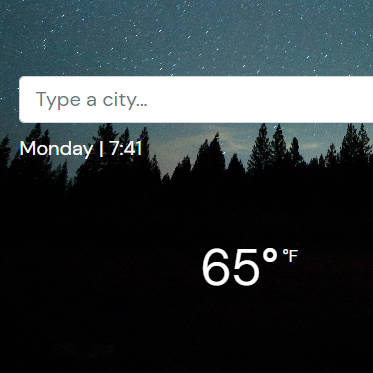
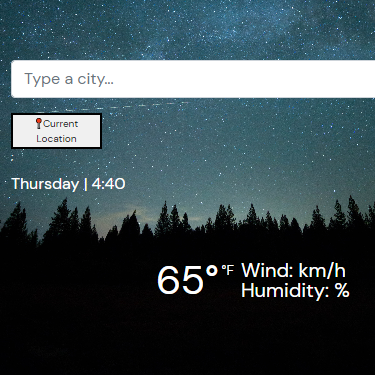
updated photos, added grid on homepage

diff --git a/index.html b/index.html
@@ -35,30 +35,38 @@
     />
   </head>
   <body>
-    <div class="intro mt-3">
-      <h1>Julia Pons</h1>
-      <h2>
-        Front-end Developer
-        <br />
-        Portland | Maine | USA
-      </h2>
+    <div class="container">
+      <div class="row">
+        <div class="col-md-4 mb-5">
+          <div class="intro mt-3">
+            <h1>Julia Pons</h1>
+            <h2>
+              Front-end Developer
+              <br />
+              Portland | Maine | USA
+            </h2>
+          </div>
+        </div>
+      
+        <div class="col-md-8">
+          <div class="hook">
+            <p class="mt-5 mb-5">
+              Aspiring Front-end Developer with 8 years of professional
+              experience
+              <br />
+              in the international education field. Contact me to learn more!
+            </p>
+          </div>
+        </div>
     </div>
-    <div class="hook">
-      <p class="mt-5 mb-5">
-        Aspiring Front-end Developer with 8 years of professional experience
-        <br />
-        in the international education field. Contact me to learn more!
-      </p>
-    </div>
+  </div>
+  
 
-    <div class="overview container">
+  </div>
+    <div class="overview container mt-5">
       <div class="row mb-5">
         <div class="col-3">
-          <img
-            src="images/jp-profile.jpg"
-            class="rounded-circle z-depth-2 img-fluid"
-            alt=""
-          />
+          <img src="images/jp-profile.jpg" class="img-fluid" alt="" />
         </div>
         <div class="col">
           <h2>About me</h2>
@@ -78,11 +86,7 @@
     <div class="container">
       <div class="row mb-5">
         <div class="col-3">
-          <img
-            src="images/weather.PNG"
-            class="rounded-circle z-depth-2 img-fluid"
-            alt=""
-          />
+          <img src="images/weather.PNG" class="img-fluid" alt="" />
         </div>
         <div class="col">
           <h2>Weather app</h2>
@@ -102,11 +106,7 @@
     <div class="container">
       <div class="row mb-5">
         <div class="col-3">
-          <img
-            src="images/backpacking.PNG"
-            class="rounded-circle z-depth-2 img-fluid"
-            alt=""
-          />
+          <img src="images/backpacking.jpg" class="img-fluid" alt="" />
         </div>
         <div class="col">
           <h2>Backpacking Project</h2>

diff --git a/styles/style.css b/styles/style.css
@@ -72,8 +72,8 @@ body {
   font-weight: light;
   padding-top: 3px;
   border-bottom: 2px solid white;
-  height: 100px;
-  width: fit-content;
+  height: 175px;
+  width: 100%;
 }
 
 .work-container h3 {
@@ -89,14 +89,12 @@ body {
   font-size: 25px;
 }
 
+.work-container work-rows {
+  background: blue;
+}
+
 img {
   width: 300px;
-  border: 1px solid white;
-  display: flex;
-  flex-direction: column;
-  justify-content: center;
-  text-align: center;
-  max-width: 100%;
 }
 
 @media (max-width: 850px) {
@@ -110,11 +108,6 @@ img {
     height: 170px;
     width: 270px;
   }
-  .content-container img {
-    display: flex;
-    align-items: center;
-    justify-content: center;
-  }
   .content-container h1 {
     text-align: center;
     font-size: 50px;
@@ -122,11 +115,14 @@ img {
     height: 100px;
     width: 100%;
   }
-  .content-container h2 {
+  .content-container,
+  .work-container h2,
+  h3 {
     padding: 0px 20px;
     text-align: center;
   }
-  .content-container p {
+  .content-container,
+  .work-container p {
     padding: 0px 20px;
     text-align: center;
   }
@@ -144,16 +140,12 @@ img {
   p {
     padding-right: 20px;
   }
-  .work-container img {
-    display: flex;
-    align-items: center;
-    justify-content: center;
-  }
+
   .work-container h1 {
     text-align: center;
     font-size: 50px;
     border-bottom: 2px solid white;
-    height: 100px;
+    height: 150px;
     width: 100%;
   }
 }

diff --git a/work.html b/work.html
@@ -32,21 +32,15 @@
     <div class="work-container container">
       <h1 class="mt-5 mb-5">Take a look at what I've been working on!</h1>
       <div class="row">
-        <div class="col-lg-6 logo-wrapper">
-          <img
-            src="images/weather.PNG"
-            class="img-fluid rounded-circle z-depth-2 mt-5"
-          />
-          <h3 class="text-left mt-5">Weather App</h3>
+        <div class="col-lg-6 work-rows">
+          <img src="images/weather.PNG" class="img-fluid mt-5" />
+          <h3 class="text-left mt-3">Weather App</h3>
           <p class="text-left">Built with HTML, CSS, and JavaScript</p>
         </div>
 
-        <div class="col-lg-6 logo-wrapper">
-          <img
-            src="images/backpacking.PNG"
-            class="rounded-circle z-depth-2 img-fluid mt-5"
-          />
-          <h3 class="text-left mt-5">Backpacking Project</h3>
+        <div class="col-lg-6">
+          <img src="images/backpacking.jpg" class="img-fluid mt-5" />
+          <h3 class="text-left mt-3">Backpacking Project</h3>
           <p class="text-left">Built with HTML and CSS</p>
         </div>
       </div>
